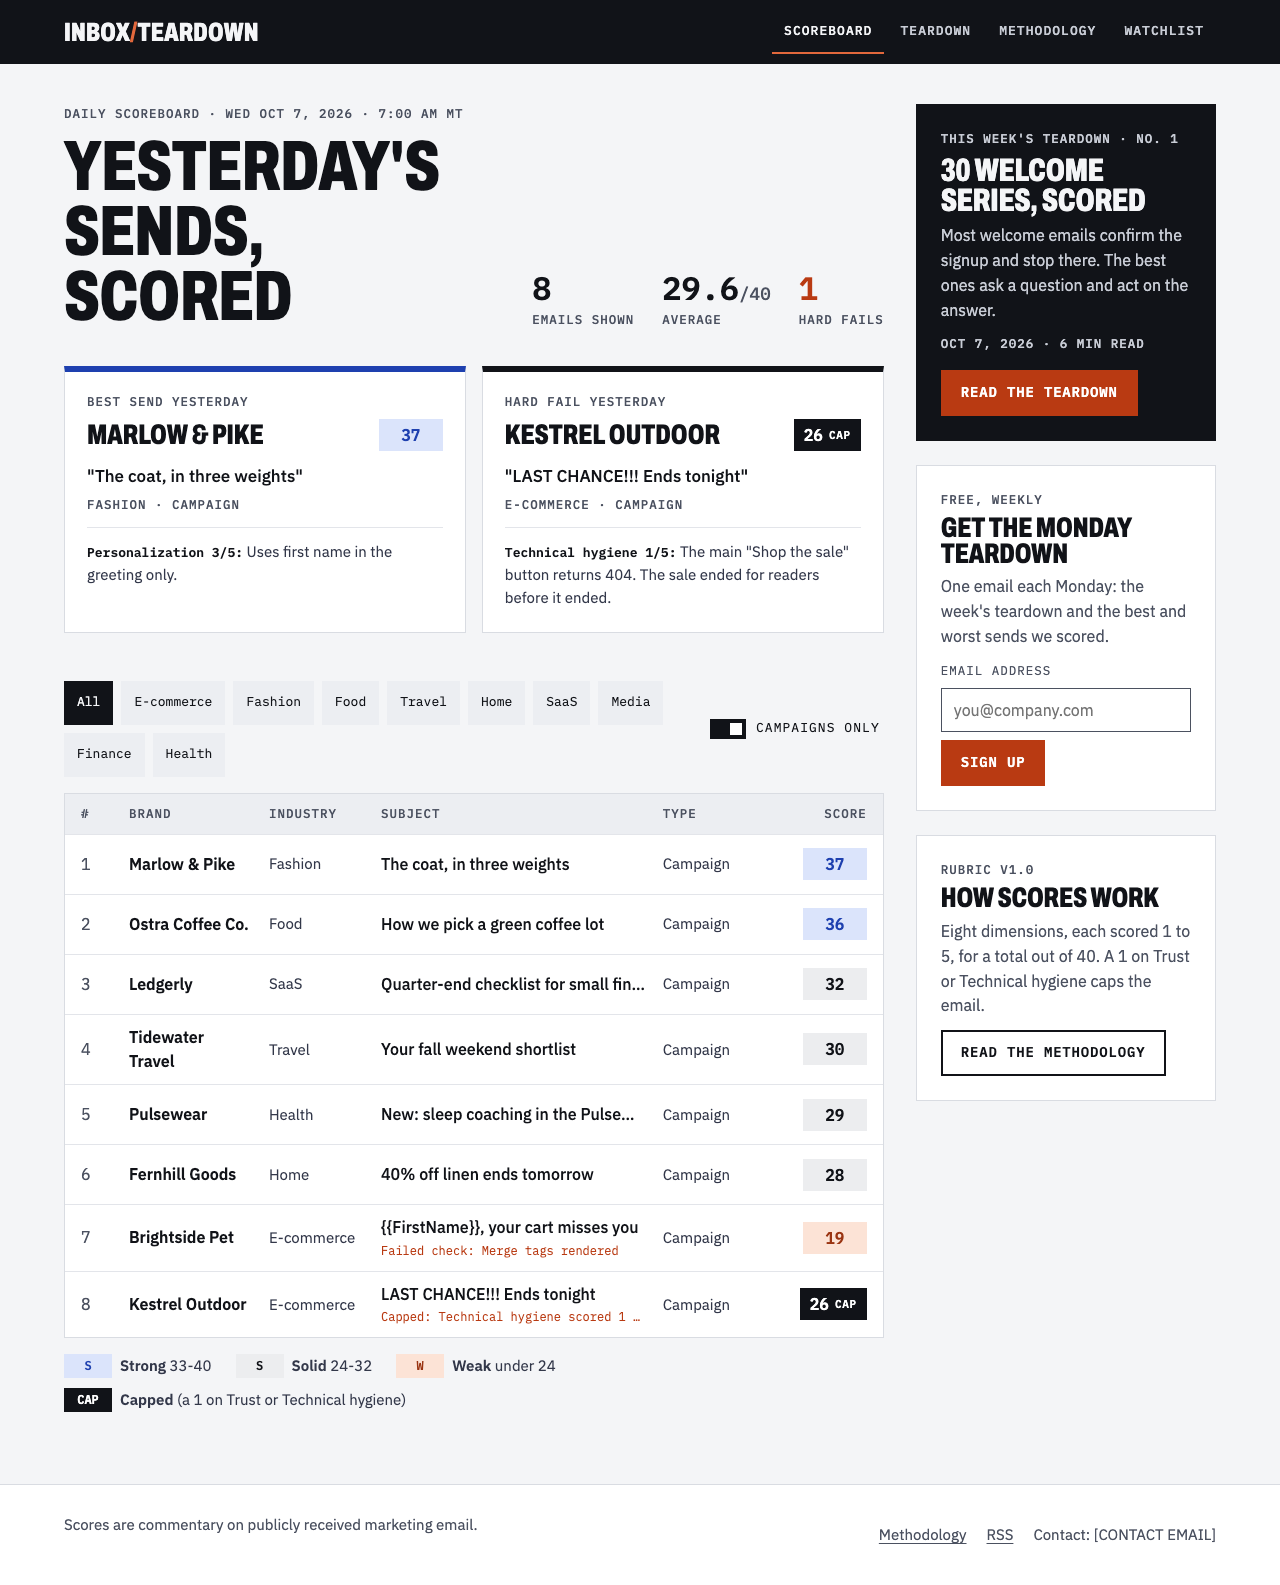
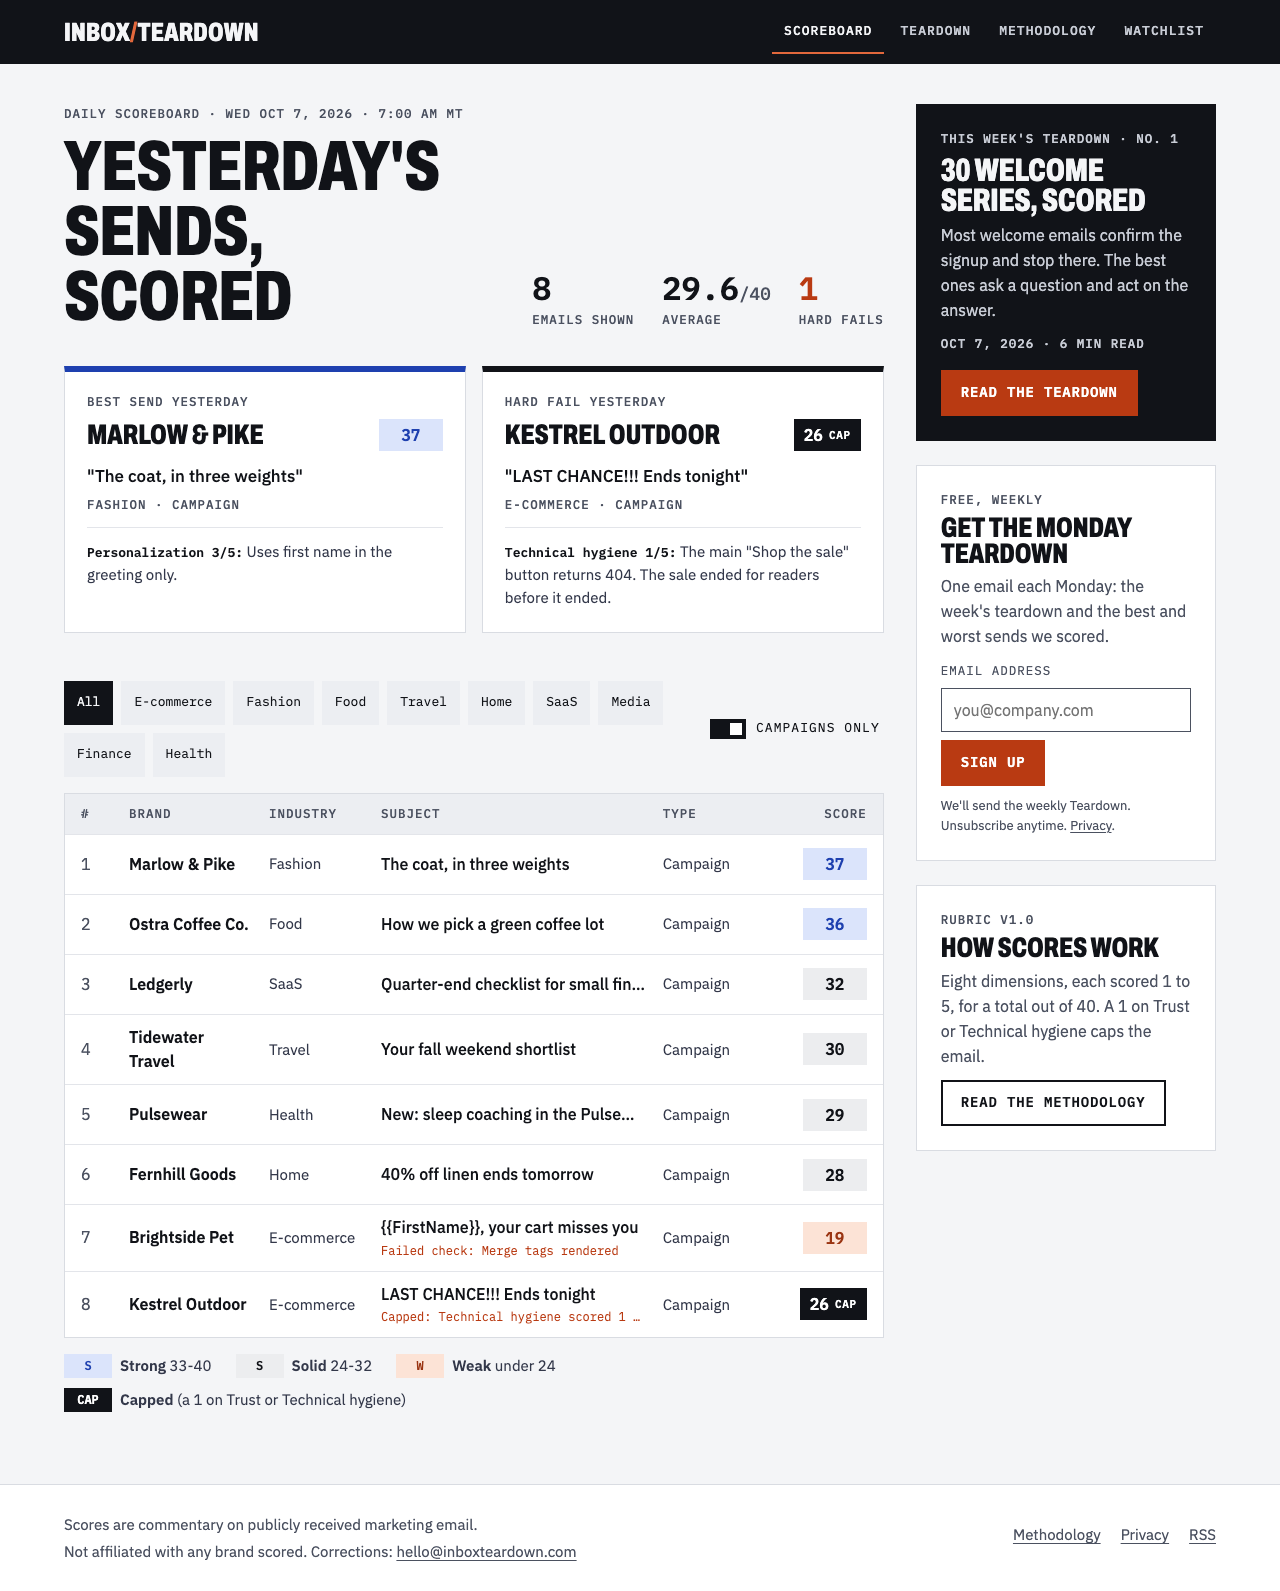
Update README, content contract, and review screenshots

diff --git a/README.md b/README.md
@@ -14,6 +14,20 @@ and loads its script from the site's own `/_vercel/insights/` path. No other ana
 third-party scripts are allowed. `npm run prelaunch` fails if any built page has a
 `<script src>` pointing anywhere but the site itself.
 
+## Site config
+
+`src/config/site.ts` holds the site URL (`https://www.inboxteardown.com`), contact address,
+email provider, indexing switch, and Watchlist price. `astro.config.mjs`, every page, the footer,
+the privacy and methodology pages, robots.txt, OG images, and the prelaunch check read from it.
+Markdown pages use `{contactEmail}` and `{emailProvider}` tokens, filled in from the config at build.
+
+## Open Graph images
+
+1200x630 PNGs are generated at build time by prerendered endpoints under `src/pages/og/`
+(satori + resvg, no runtime functions): a default site card, the scoreboard home, one per teardown,
+and one per tracker. Samples are in `docs/og-samples/`. The display face is Archivo Narrow 700,
+because satori cannot read WOFF2 or apply the variable font's width axis.
+
 ## Commands
 
 Requires Node 22+.
@@ -26,7 +40,7 @@ Requires Node 22+.
 | `npm run preview` | Serve `dist/` locally |
 | `npm test` | Vitest unit tests (scoring, brand aggregation, schemas) |
 | `npm run check` | `astro check` type and template diagnostics |
-| `npm run prelaunch` | Checks `dist/` for third-party `<script src>` (run after build; exits non-zero on failure) |
+| `npm run prelaunch` | Launch gate over `src/` and `dist/` (run after build). Reports every failure, exits 1 if any rule fails |
 | `npm run screenshots` | Playwright screenshots into `docs/screenshots/` (run after build; first time: `npx playwright install chromium`) |
 
 ## Content contract (summary)
@@ -72,16 +86,21 @@ with `npm run screenshots` once real data exists.
 
 ## Pre-launch checklist
 
-- [ ] Remove the fixtures (see above) and add real scoreboard data.
-- [ ] Set `PUBLIC_SIGNUP_ENDPOINT` in the Vercel project env. Until then, forms show "Signups open soon".
-- [ ] Flip `public/robots.txt` to allow crawling (instructions are in the file).
-- [ ] Confirm the rubric dimension names in `src/config/rubric.ts` against `email-quality-rubric-client.md`.
-- [ ] Set the Watchlist price (`watchlistPrice` in `src/config/site.ts`).
-- [ ] Set the contact address (`contact` in `src/config/site.ts`).
-- [ ] Fill in the `TODO(andrew)` placeholders in `src/content/pages/methodology.md`.
-- [ ] Add a privacy policy page before collecting email addresses. It needs an Analytics section covering Vercel Web Analytics.
+`npm run build && npm run prelaunch` is the checklist. It must pass before launch. It fails on:
+
+- any third-party `<script src>` (only the site itself and Vercel's `/_vercel/insights/` path are allowed)
+- any `TODO(andrew)` in `src/`
+- bracketed placeholders such as `[PRICE]` or `[EMAIL PROVIDER]` in built pages
+- any fixture brand name in `src/content/` (remove the fixtures, see above)
+- `/privacy/` missing from the build
+- `PUBLIC_SIGNUP_ENDPOINT` unset at build time (set it in the Vercel project env)
+- robots.txt blocking everything (set `allowIndexing: true` in `src/config/site.ts`)
+- an indexable page without an `og:image`, or one pointing at a file that isn't built
+- a footer missing the contact address
+
+Not covered by the check:
+
 - [ ] Enable Web Analytics for the project in the Vercel dashboard (the script 404s until it is enabled).
-- [ ] Run `npm run build && npm run prelaunch` and confirm it passes.
 - [ ] When the tracker should go live, set `published: true` in `src/content/tracker/bf-2026.md`.
 
 Find remaining placeholders with `grep -rn "TODO(andrew)" src`.

diff --git a/docs/CONTENT-CONTRACT.md b/docs/CONTENT-CONTRACT.md
@@ -38,6 +38,9 @@ emails:                             # at least one
       - { name: "Links resolve", result: fail, detail: "1 of 9 links returns 404" }
       - { name: "Unsubscribe present", result: pass }
     screenshot: null                   # or "/shots/<file>"; put the file in public/shots/
+    correction:                        # optional; set when a published score changes
+      date: 2026-10-08
+      note: "Technical hygiene raised from 1 to 3: the CTA link was fixed before most opens." 
 ---
 ```
 
@@ -49,6 +52,8 @@ Rules:
 - Subjects are rendered as text. Merge tags such as `{{FirstName}}` show
   literally, which is intended. Quote any subject that starts with `{`, `[`,
   `*`, `!`, or contains `: `.
+- `correction` is optional. When present, the scorecard shows "Corrected {date}: {note}" in the
+  verdict block. Update the dimension scores themselves to the corrected values.
 - Unknown keys anywhere in an email fail the build.
 
 ### Industries
@@ -130,11 +135,14 @@ categories:
 because the page needs an update time and an October baseline and must be
 built from this file alone. Both are optional.
 
-## Pages: `src/content/pages/methodology.md`
+## Pages: `src/content/pages/*.md`
 
-Frontmatter: `title`, `description`, optional `rubric_version`, `rubric_date`.
-The body is the methodology prose. Dimension names come from
-`src/config/rubric.ts`, not from this file.
+`methodology.md` and `privacy.md`. Frontmatter: `title`, `description`,
+optional `rubric_version`, `rubric_date`. Dimension names come from
+`src/config/rubric.ts`, not from these files. The bodies may use
+`{contactEmail}` (rendered as a mailto link) and `{emailProvider}` (the
+provider name, or `[EMAIL PROVIDER]` while unset); both are filled from
+`src/config/site.ts` at build.
 
 ## Cross-file checks
 
